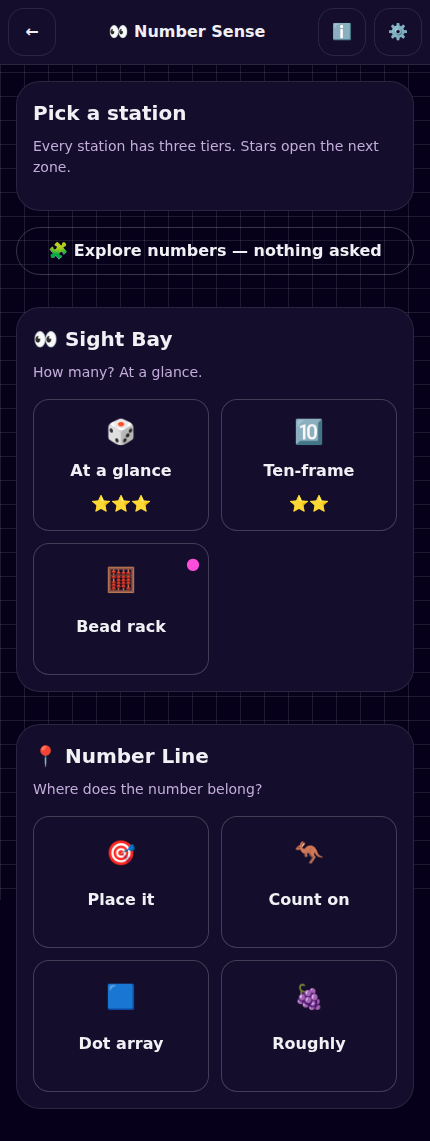
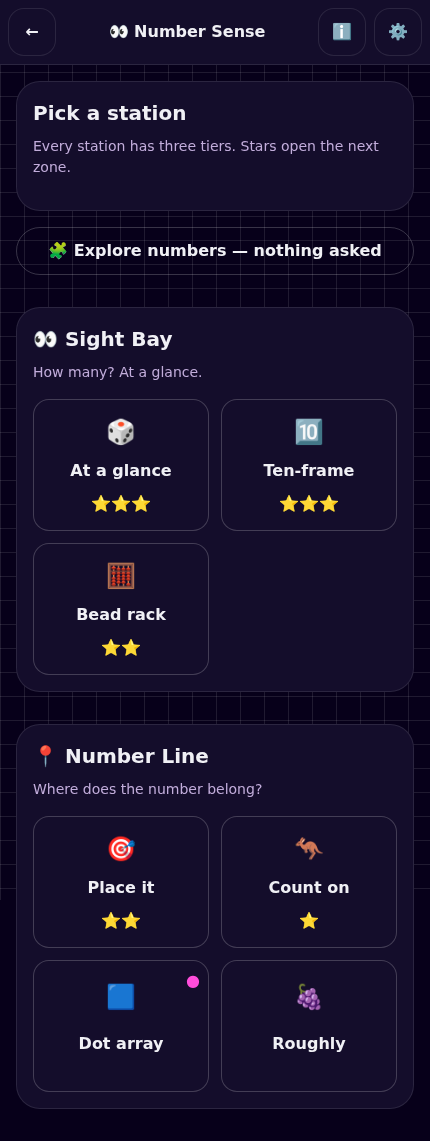
fix(i18n): count stars in words a child actually reads
Both summary screens announced "You earned 1 star(s)!" — and the same
placeholder plural in all four languages: "1 Stern(e)", "1 étoile(s)",
"1 stella/e". It is the one piece of copy in the app written for a compiler
rather than for a seven-year-old, and it is on the screen that exists purely
to congratulate them.

Adds a `plural` helper beside `fill` and a singular form per language. Two
tests pinned the broken string, so both moved with it; the unit test now
asserts the singular case too, which is the one that was wrong.

Found by playing every screen rather than by reading the code — it renders
only after a star is newly earned, which is why the suite had captured it as
expected output rather than as a defect.

Screenshots retaken as part of the same pass. Number Sense and Times Tables
had been shot with no progress seeded, so the first showed a locked second
zone and no stars, and the second an entirely blank mastery map — neither
illustrating the thing the README describes beside them. Both now carry
part-way progress, and the mastery map shows the commutative mirror that
makes 7×8 and 8×7 one fact.

diff --git a/web/src/i18n/types.ts b/web/src/i18n/types.ts
@@ -195,7 +195,7 @@ export type Translations = {
         phaseLearn: string; phasePractice: string; phaseSpeed: string
         heatmapTitle: string; heatmapCore: string; heatmapExtended: string; heatmapSquares: string
         trainExit: string; summaryAccuracy: string; summaryStreak: string; summaryLeveledUp: string
-        summaryPracticeBtn: string; summaryTime: string; summaryNewBest: string; summaryStarsEarned: string
+        summaryPracticeBtn: string; summaryTime: string; summaryNewBest: string; summaryStarsEarnedOne: string; summaryStarsEarned: string
         summarySpeedUnlocked: string; summaryMastered: string; summaryKeepPracticing: string
         learnFinish: string; learnCardDismiss: string; learnGuided: string; speedGo: string
         settingsTitle: string; settingsStrategyCards: string; settingsStrategyHint: string
@@ -300,6 +300,7 @@ export type Translations = {
         summaryTitle: string
         summaryAccuracy: string
         summaryStreak: string
+        summaryStarsOne: string
         summaryStars: string
         summaryNewBest: string
         summaryKeepGoing: string

diff --git a/web/src/components/trainer/SessionSummary.test.tsx b/web/src/components/trainer/SessionSummary.test.tsx
@@ -46,11 +46,17 @@ describe('SessionSummary', () => {
         expect(screen.queryByText(labels.summaryNewBest)).not.toBeInTheDocument()
     })
 
-    it('shows earned stars only after a positive star change and fills the star count label', () => {
+    it('shows earned stars only after a positive star change, and counts them in real words', () => {
         const { unmount } = renderSummary({ starsChanged: true, earnedStars: 2 })
 
-        expect(screen.getByText('You earned 2 star(s)!')).toBeInTheDocument()
+        expect(screen.getByText('You earned 2 stars!')).toBeInTheDocument()
         unmount()
+
+        // One star used to read "1 star(s)", which is not a form a child reads anywhere else.
+        const single = renderSummary({ starsChanged: true, earnedStars: 1 })
+        expect(screen.getByText('You earned 1 star!')).toBeInTheDocument()
+        single.unmount()
+
         renderSummary({ starsChanged: true, earnedStars: 0 })
         expect(screen.queryByText(/You earned/)).not.toBeInTheDocument()
     })

diff --git a/web/src/i18n/fr.ts b/web/src/i18n/fr.ts
@@ -258,7 +258,7 @@ export const fr: Translations = {
         summaryPracticeBtn: 'S’entraîner',
         summaryTime: 'Temps',
         summaryNewBest: 'Nouveau record personnel !',
-        summaryStarsEarned: 'Tu as gagné {n} étoile(s) !',
+        summaryStarsEarnedOne: 'Tu as gagné {n} étoile !', summaryStarsEarned: 'Tu as gagné {n} étoiles !',
         summarySpeedUnlocked: 'Sprint débloqué !',
         summaryMastered: 'Planète maîtrisée !',
         summaryKeepPracticing: 'Continue pour gagner des étoiles.',
@@ -399,7 +399,7 @@ export const fr: Translations = {
         summaryTitle: 'Station terminée !',
         summaryAccuracy: 'Bonnes',
         summaryStreak: 'Meilleure série',
-        summaryStars: 'Tu as gagné {n} étoile(s) !',
+        summaryStarsOne: 'Tu as gagné {n} étoile !', summaryStars: 'Tu as gagné {n} étoiles !',
         summaryNewBest: 'Nouveau record personnel !',
         summaryKeepGoing: 'Continue pour gagner une étoile.',
         playAgain: 'Rejouer',

diff --git a/web/src/components/DrillSummary.tsx b/web/src/components/DrillSummary.tsx
@@ -1,5 +1,5 @@
 import { useModalDialog } from '../hooks'
-import { fill, type Translations } from '../i18n'
+import { plural, type Translations } from '../i18n'
 import type { SurpriseActions } from '../hooks'
 
 /** Both drills award the same three stars; the beam and sense types agree. */
@@ -56,7 +56,7 @@ export default function DrillSummary({ labels, result, onPlayAgain, onExit, surp
                     ))}
                 </div>
 
-                {result.gained && <p className="summary__badge">⭐ {fill(labels.summaryStars, { n: result.stars })}</p>}
+                {result.gained && <p className="summary__badge">⭐ {plural(result.stars, labels.summaryStarsOne, labels.summaryStars)}</p>}
                 {result.newBest && <p className="summary__badge">🏆 {labels.summaryNewBest}</p>}
                 {/* "Keep practising for a star" only makes sense to somebody without one. */}
                 {!result.gained && result.stars === 0 && <p className="summary__hint">{labels.summaryKeepGoing}</p>}

diff --git a/web/src/i18n/it.ts b/web/src/i18n/it.ts
@@ -258,7 +258,7 @@ export const it: Translations = {
         summaryPracticeBtn: 'Esercitati ora',
         summaryTime: 'Tempo',
         summaryNewBest: 'Nuovo record personale!',
-        summaryStarsEarned: 'Hai guadagnato {n} stella/e!',
+        summaryStarsEarnedOne: 'Hai guadagnato {n} stella!', summaryStarsEarned: 'Hai guadagnato {n} stelle!',
         summarySpeedUnlocked: 'Corsa veloce sbloccata!',
         summaryMastered: 'Pianeta conquistato!',
         summaryKeepPracticing: 'Continua per guadagnare stelle.',
@@ -399,7 +399,7 @@ export const it: Translations = {
         summaryTitle: 'Stazione completata!',
         summaryAccuracy: 'Giuste',
         summaryStreak: 'Serie migliore',
-        summaryStars: 'Hai guadagnato {n} stella/e!',
+        summaryStarsOne: 'Hai guadagnato {n} stella!', summaryStars: 'Hai guadagnato {n} stelle!',
         summaryNewBest: 'Nuovo record personale!',
         summaryKeepGoing: 'Continua per guadagnare una stella.',
         playAgain: 'Ancora',

diff --git a/web/src/i18n/en.ts b/web/src/i18n/en.ts
@@ -258,7 +258,7 @@ export const en: Translations = {
         summaryPracticeBtn: 'Practise now',
         summaryTime: 'Time',
         summaryNewBest: 'New personal best!',
-        summaryStarsEarned: 'You earned {n} star(s)!',
+        summaryStarsEarnedOne: 'You earned {n} star!', summaryStarsEarned: 'You earned {n} stars!',
         summarySpeedUnlocked: 'Speed Run unlocked!',
         summaryMastered: 'Planet mastered!',
         summaryKeepPracticing: 'Keep practising for stars.',
@@ -399,7 +399,7 @@ export const en: Translations = {
         summaryTitle: 'Station complete!',
         summaryAccuracy: 'Correct',
         summaryStreak: 'Best streak',
-        summaryStars: 'You earned {n} star(s)!',
+        summaryStarsOne: 'You earned {n} star!', summaryStars: 'You earned {n} stars!',
         summaryNewBest: 'New personal best!',
         summaryKeepGoing: 'Keep practising for a star.',
         playAgain: 'Play again',

diff --git a/web/src/i18n/de.ts b/web/src/i18n/de.ts
@@ -256,7 +256,7 @@ export const de: Translations = {
         summaryPracticeBtn: 'Jetzt üben',
         summaryTime: 'Zeit',
         summaryNewBest: 'Neue Bestzeit!',
-        summaryStarsEarned: '{n} Stern(e) verdient!',
+        summaryStarsEarnedOne: '{n} Stern verdient!', summaryStarsEarned: '{n} Sterne verdient!',
         summarySpeedUnlocked: 'Sprint freigeschaltet!',
         summaryMastered: 'Planet gemeistert!',
         summaryKeepPracticing: 'Übe weiter für Sterne.',
@@ -397,7 +397,7 @@ export const de: Translations = {
         summaryTitle: 'Station geschafft!',
         summaryAccuracy: 'Richtig',
         summaryStreak: 'Beste Serie',
-        summaryStars: '{n} Stern(e) verdient!',
+        summaryStarsOne: '{n} Stern verdient!', summaryStars: '{n} Sterne verdient!',
         summaryNewBest: 'Neuer Bestwert!',
         summaryKeepGoing: 'Übe weiter für einen Stern.',
         playAgain: 'Nochmal',

diff --git a/web/src/components/trainer/SessionSummary.tsx b/web/src/components/trainer/SessionSummary.tsx
@@ -1,7 +1,7 @@
 import { useNavigate } from 'react-router'
 import type { SurpriseActions } from '../../hooks'
 import { store } from '../../store'
-import { translations } from '../../i18n'
+import { plural, translations } from '../../i18n'
 import type { Phase, PlanetId } from '../../timesTable/types'
 
 type SessionSummaryProps = {
@@ -53,7 +53,7 @@ export function SessionSummary({
 
             {starsChanged && earnedStars > 0 && (
                 <div className="summary-stars">
-                    <p>{t.tt.summaryStarsEarned.replace('{n}', earnedStars.toString())}</p>
+                    <p>{plural(earnedStars, t.tt.summaryStarsEarnedOne, t.tt.summaryStarsEarned)}</p>
                     {earnedStars === 1 && phase === 'practice' && <p>{t.tt.summarySpeedUnlocked}</p>}
                     {earnedStars === 3 && <p>{t.tt.summaryMastered}</p>}
                 </div>

diff --git a/web/e2e/times-tables.spec.ts b/web/e2e/times-tables.spec.ts
@@ -46,7 +46,7 @@ test('awards a practice star and renders it on the map after returning', async (
     await seedStorage(page, { settings, player })
     await gotoApp(page, '/times-tables/train/t1/practice')
     for (let index = 0; index < 12; index += 1) await answerCurrentFact(page)
-    await expect(page.getByText('You earned 1 star(s)!')).toBeVisible()
+    await expect(page.getByText('You earned 1 star!')).toBeVisible()
     await page.locator('.summary-actions').getByRole('button', { name: 'Back to map' }).click()
     await expect(page.getByRole('button', { name: /^×1\b/ })).toContainText('⭐')
 })

diff --git a/web/src/i18n/index.ts b/web/src/i18n/index.ts
@@ -16,3 +16,12 @@ export function fill(template: string, values: Record<string, string | number>):
         template,
     )
 }
+
+/**
+ * Picks the singular or the plural wording, then fills `{n}`.
+ *
+ * Only counts a child actually reads are worth this, and the app announces
+ * exactly one: stars, which never exceed three. The alternative these replaced
+ * was "1 star(s)", which is a form no seven-year-old has ever met in a book.
+ */
+export const plural = (n: number, one: string, many: string): string => fill(n === 1 ? one : many, { n })
